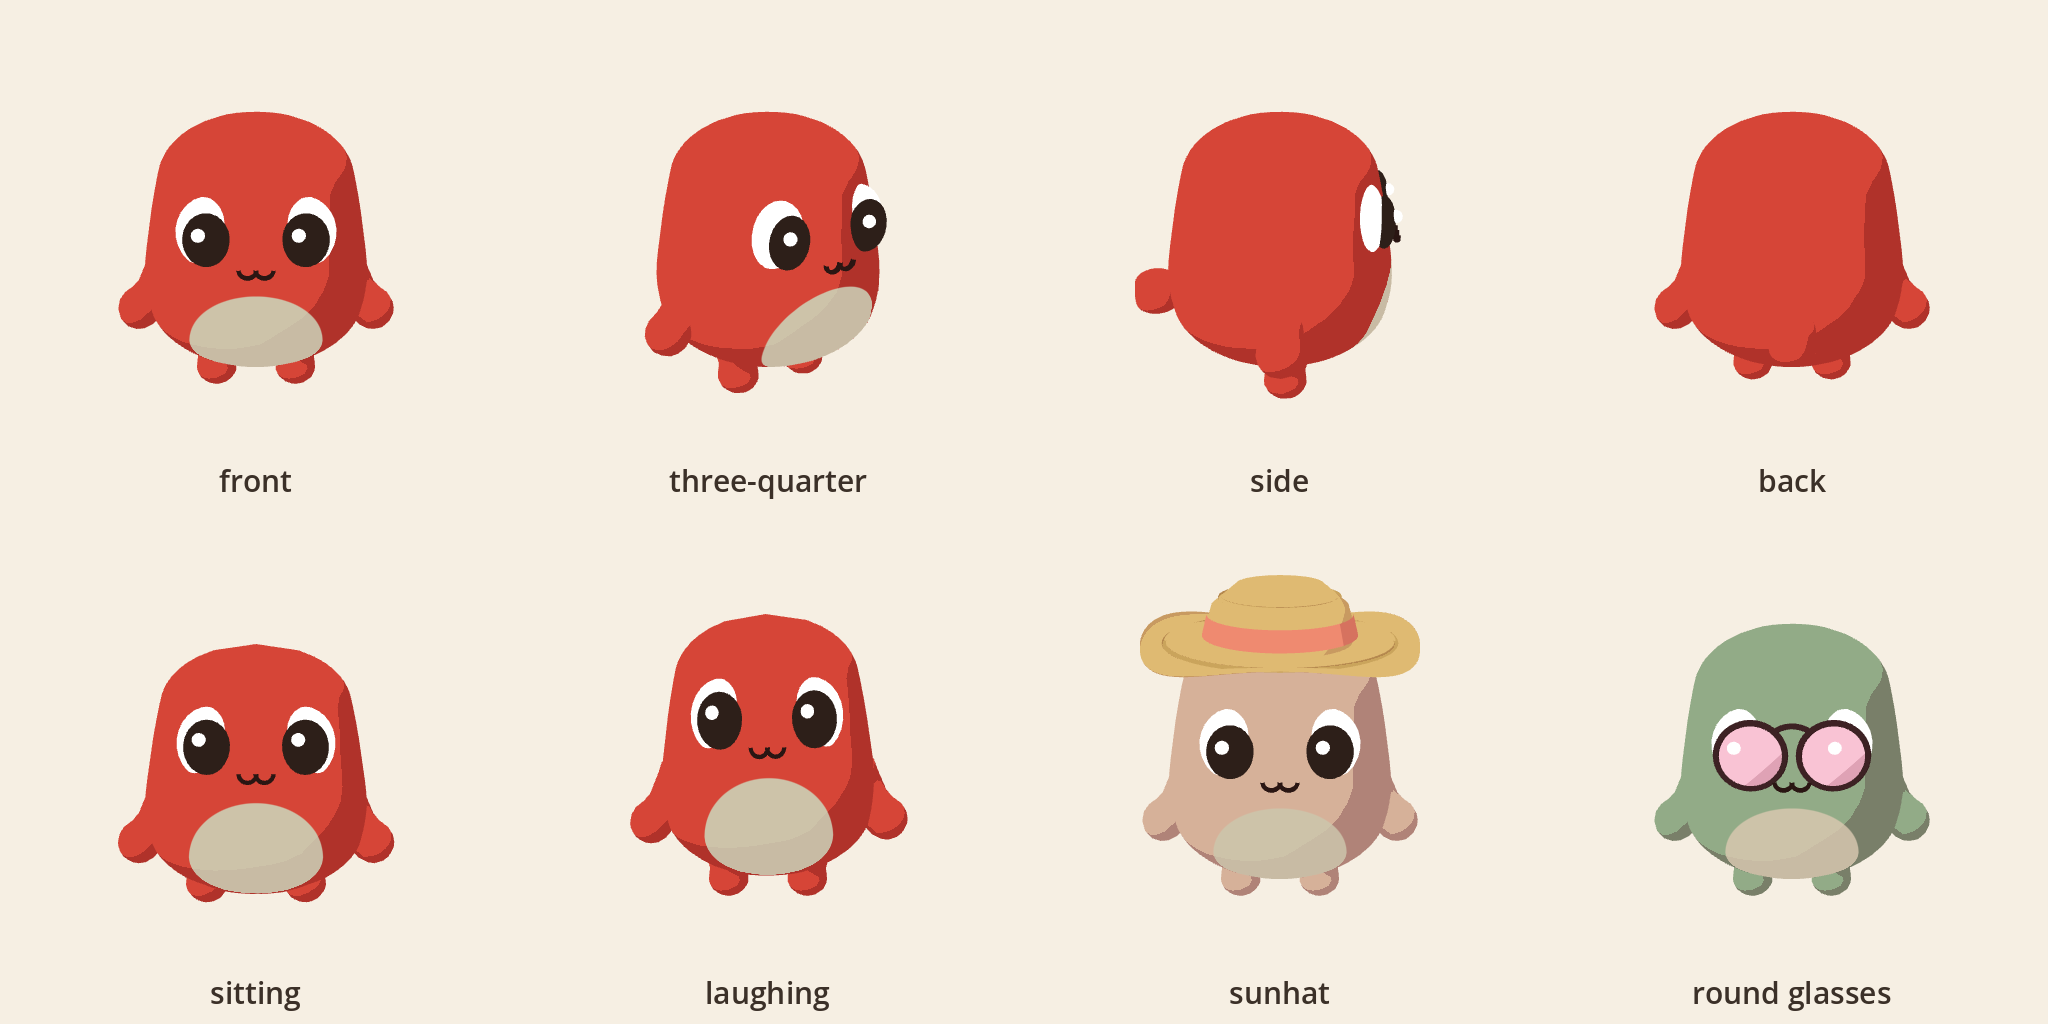
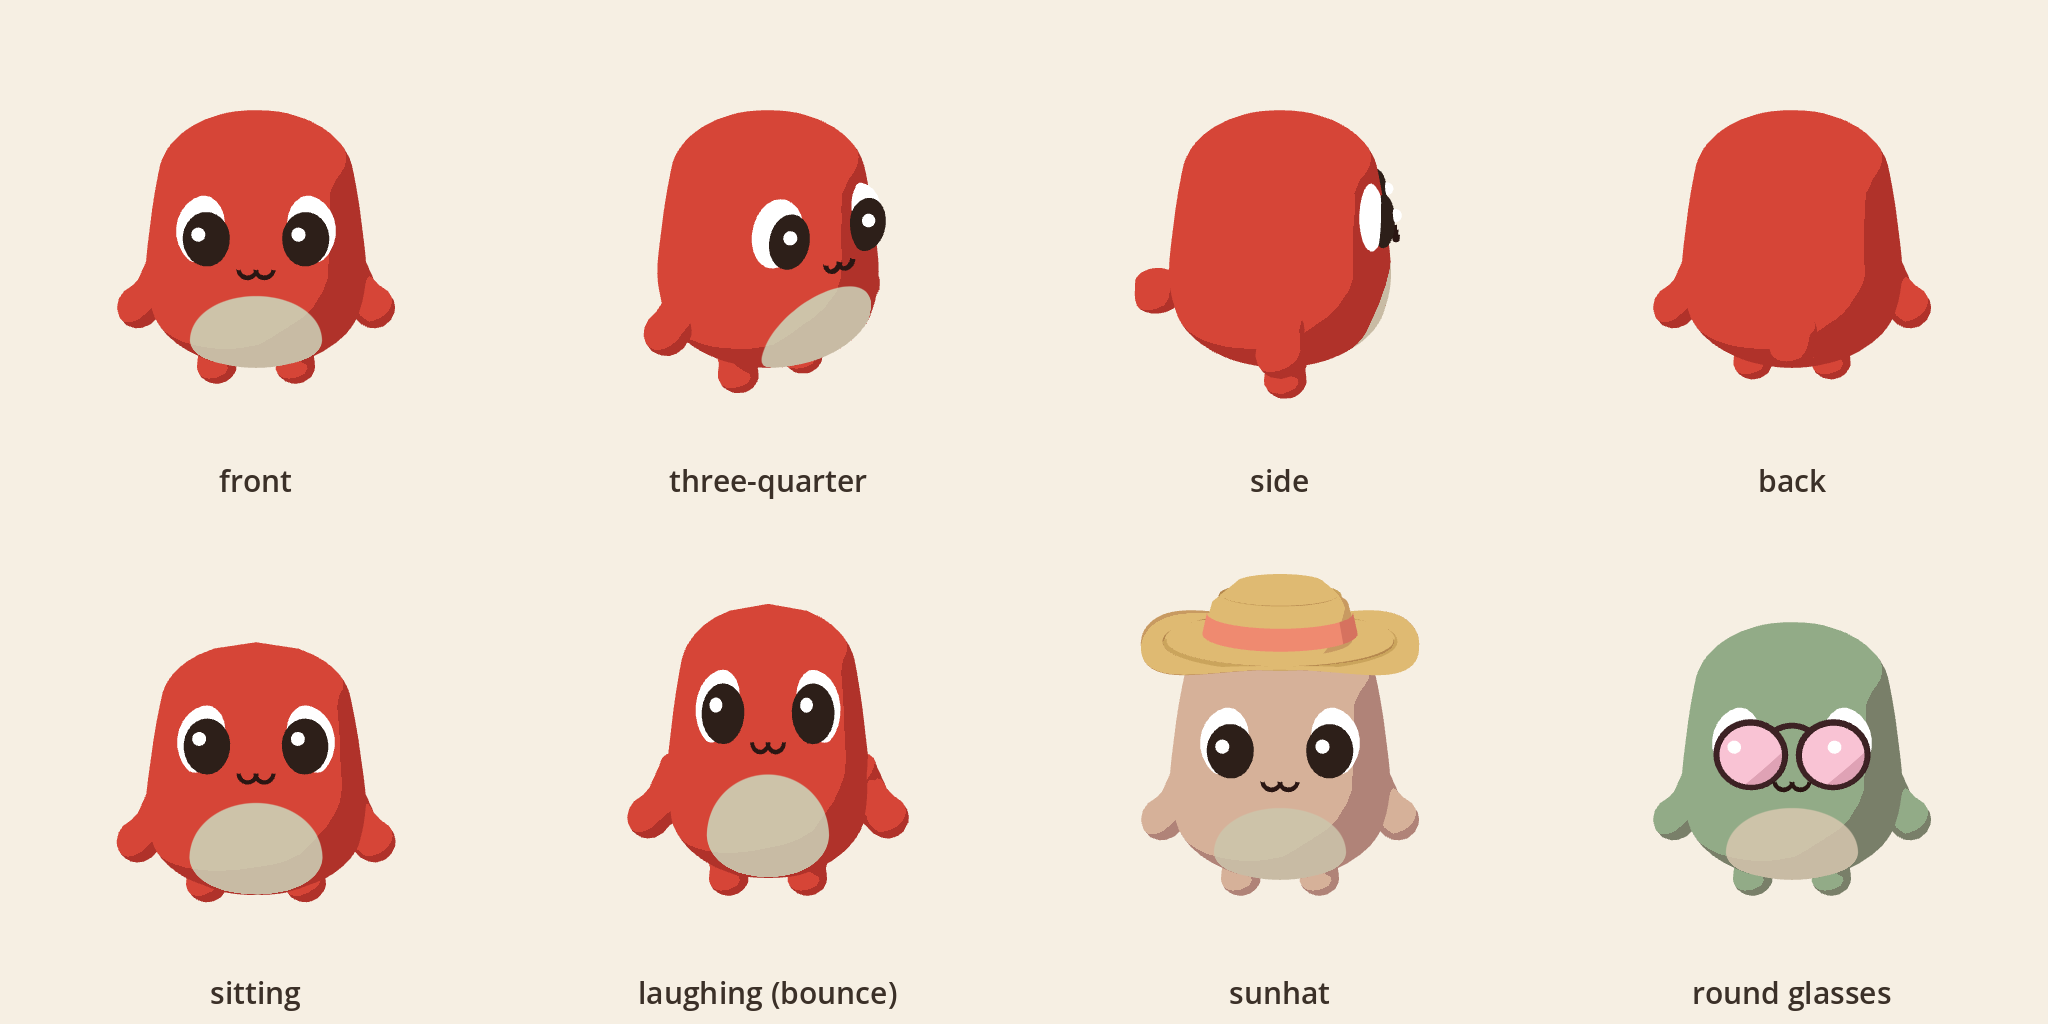
fix(night): the Peeplet sheet's laugh frozen at its bounce peak and labelled for what it is, sit noted, window-size warning

diff --git a/docs/agents/days-dashboard.md b/docs/agents/days-dashboard.md
@@ -515,7 +515,7 @@ deploy.
 `server/functions/assets/peeplet_sheet.png` (2048 x 1024, flat `Pal.PAPER`
 ground, one ink label under each cell) is the live Peeplet
 (`ui/peeplet_view.gd`) in eight cells: front, three-quarter (`turn` 35),
-side (90), back (180), sitting and laughing (caught mid-swell), all in coat 0
+side (90), back (180), sitting and "laughing (bounce)", all in coat 0
 (coral); then a `sunhat` on coat 5 and `roundglasses` on coat 6. It is the
 reference image the day's painter and the reviewer are given, so the Peeplets
 painted into the vistas wear this one look. `server/` is `.gdignore`d, so
@@ -528,6 +528,23 @@ Rebuild it after any change to the Peeplet's look (windowed, one at a time):
 
 `ink` was **off** (`PeepletFur.ink` is false in the repo): no line round the
 coat. The harness (`tests/_shot_peeplet_sheet.gd`) takes `ink` as
-`_shot_peeplet.gd` does; a sheet made with it must say so here. 49 draw
-calls. The sheet is laid out on the first frame: in `_initialize` the window
+`_shot_peeplet.gd` does; a sheet made with it must say so here. 17 draw
+calls (the last run). The sheet is laid out on the first frame: in `_initialize` the window
 has no size yet and every cell collapses into the corner.
+
+Two poses are subtler than their names, and the sheet says so. The live
+laugh (`peeplet_walker.gd`, `LAUGH_*`) is a body bounce, a squash and
+stretch under a swell with a 14 degree rock back and a wag: it never opens
+the mouth or changes the eyes. The cell is the walker frozen at its
+`laugh_time` 0.80 (bounce at its tallest, taller and narrower than the
+front, arms up, leaning back) and is labelled "laughing (bounce)" so the
+painter is not told the face laughs. The live sit (`SIT_BODY_DROP` 0.072,
+`SIT_LEAN` -13 degrees, the legs swung out under the belly) is genuinely
+this subtle on a blob whose legs cannot reach past its belly: a lower,
+slightly rocked body with the toes peeking out. The cell is the settled sit,
+kept as it is.
+
+The output is not bit-reproducible: the walkers' idle breathing and the
+frame at which the laugh freezes (0.80 to 0.82 s) depend on wall-clock frame
+timing, so a rebuild differs by a few pixels. The harness warns when the
+window is not 2048 x 1024 and still saves.
